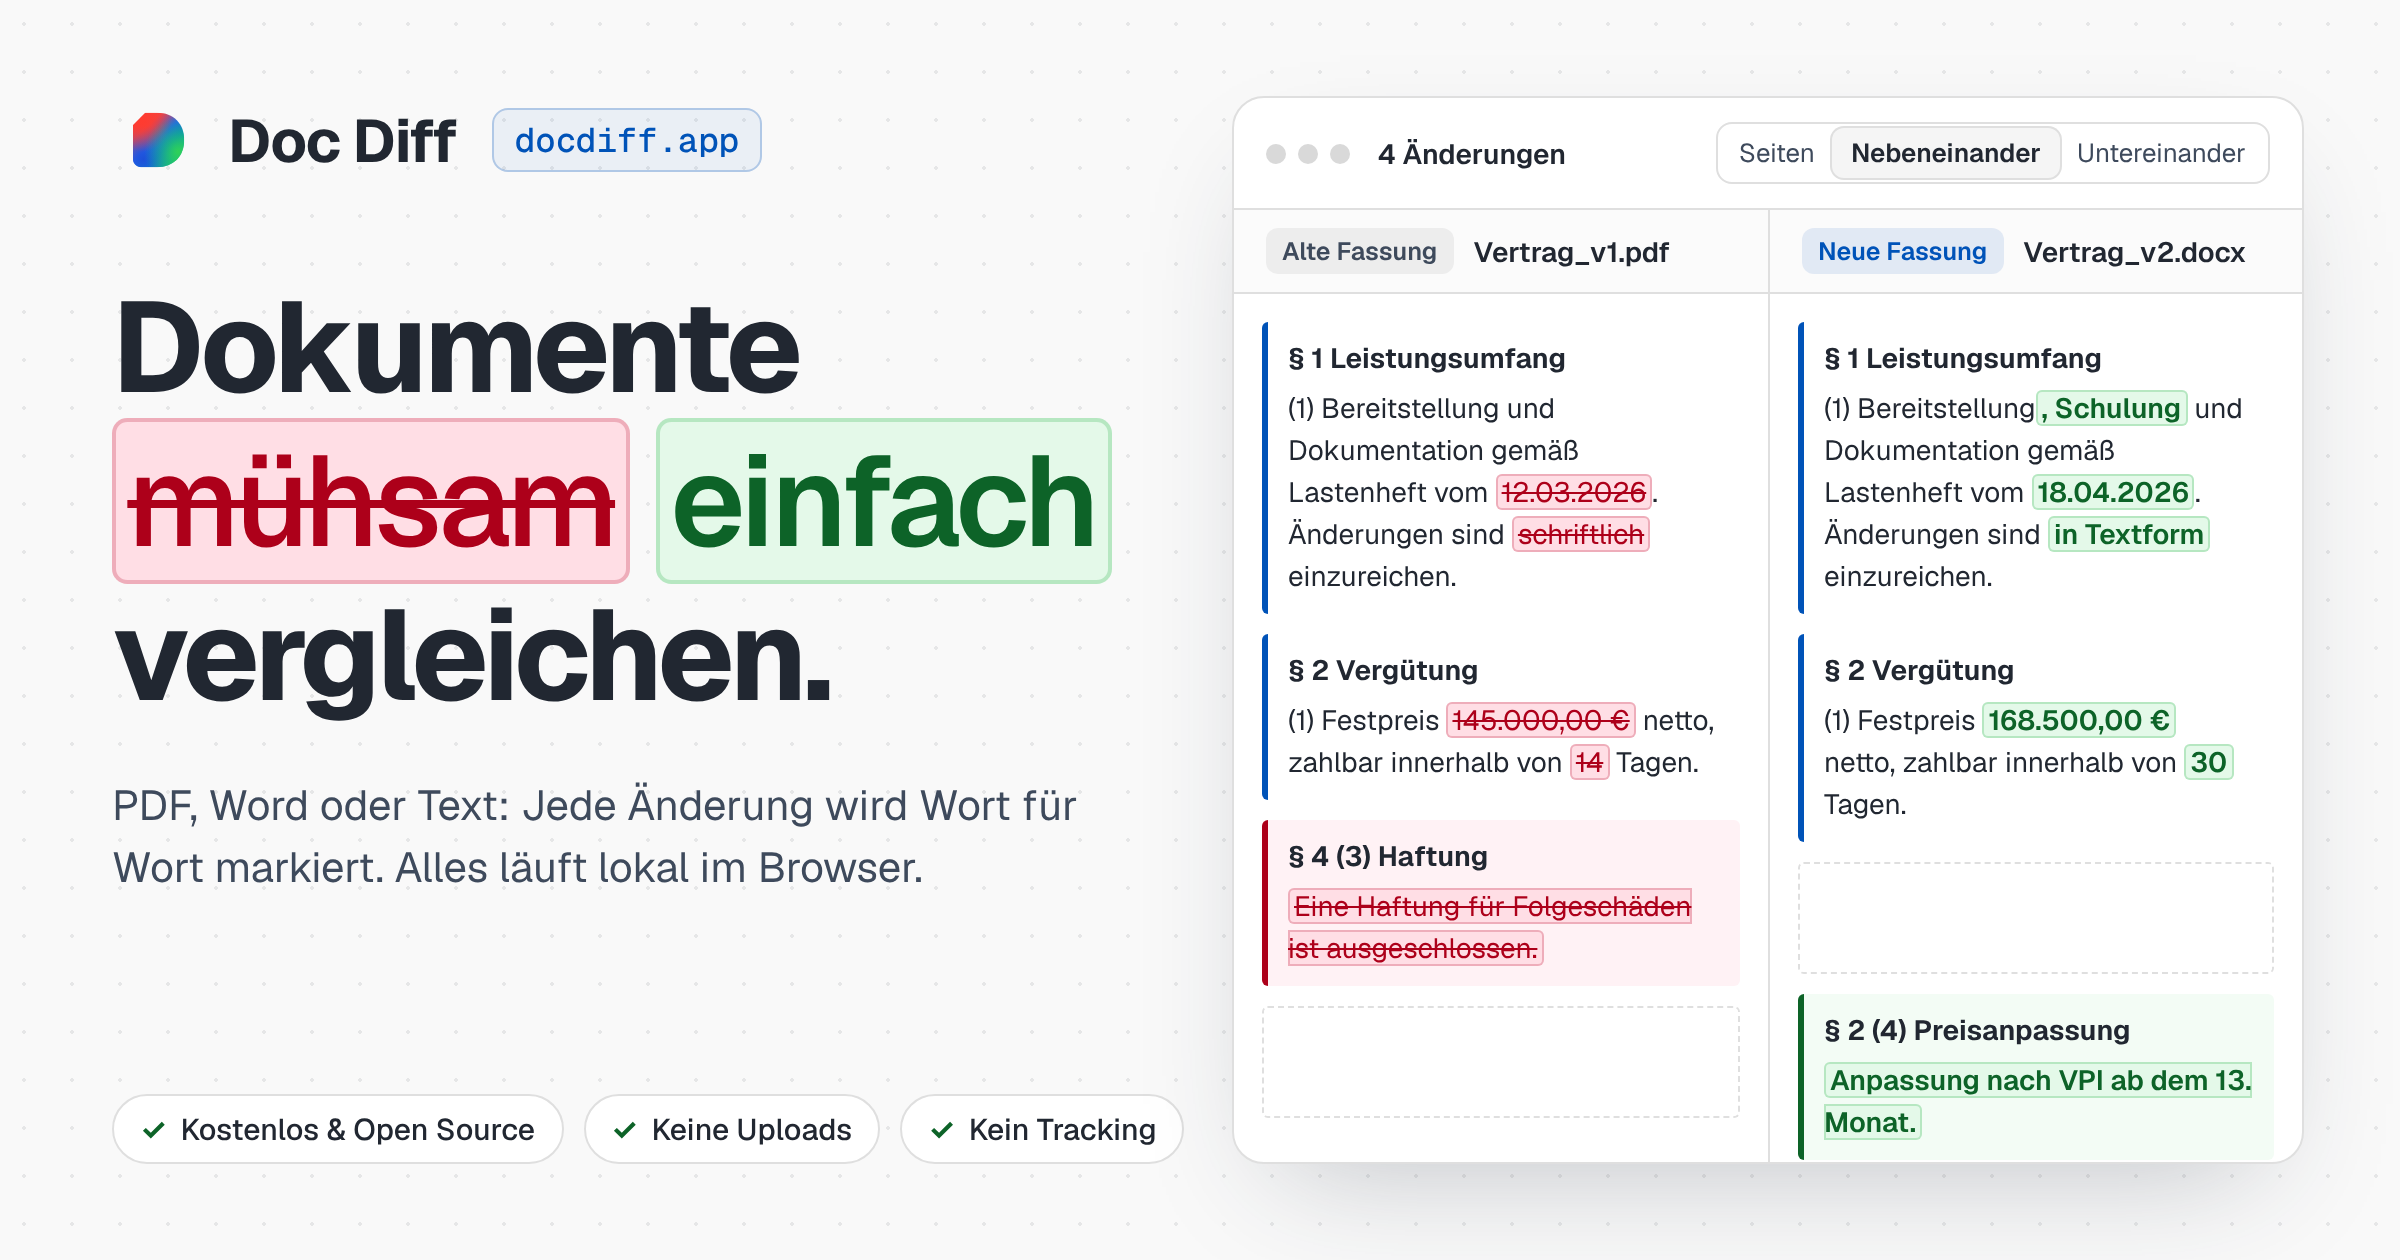
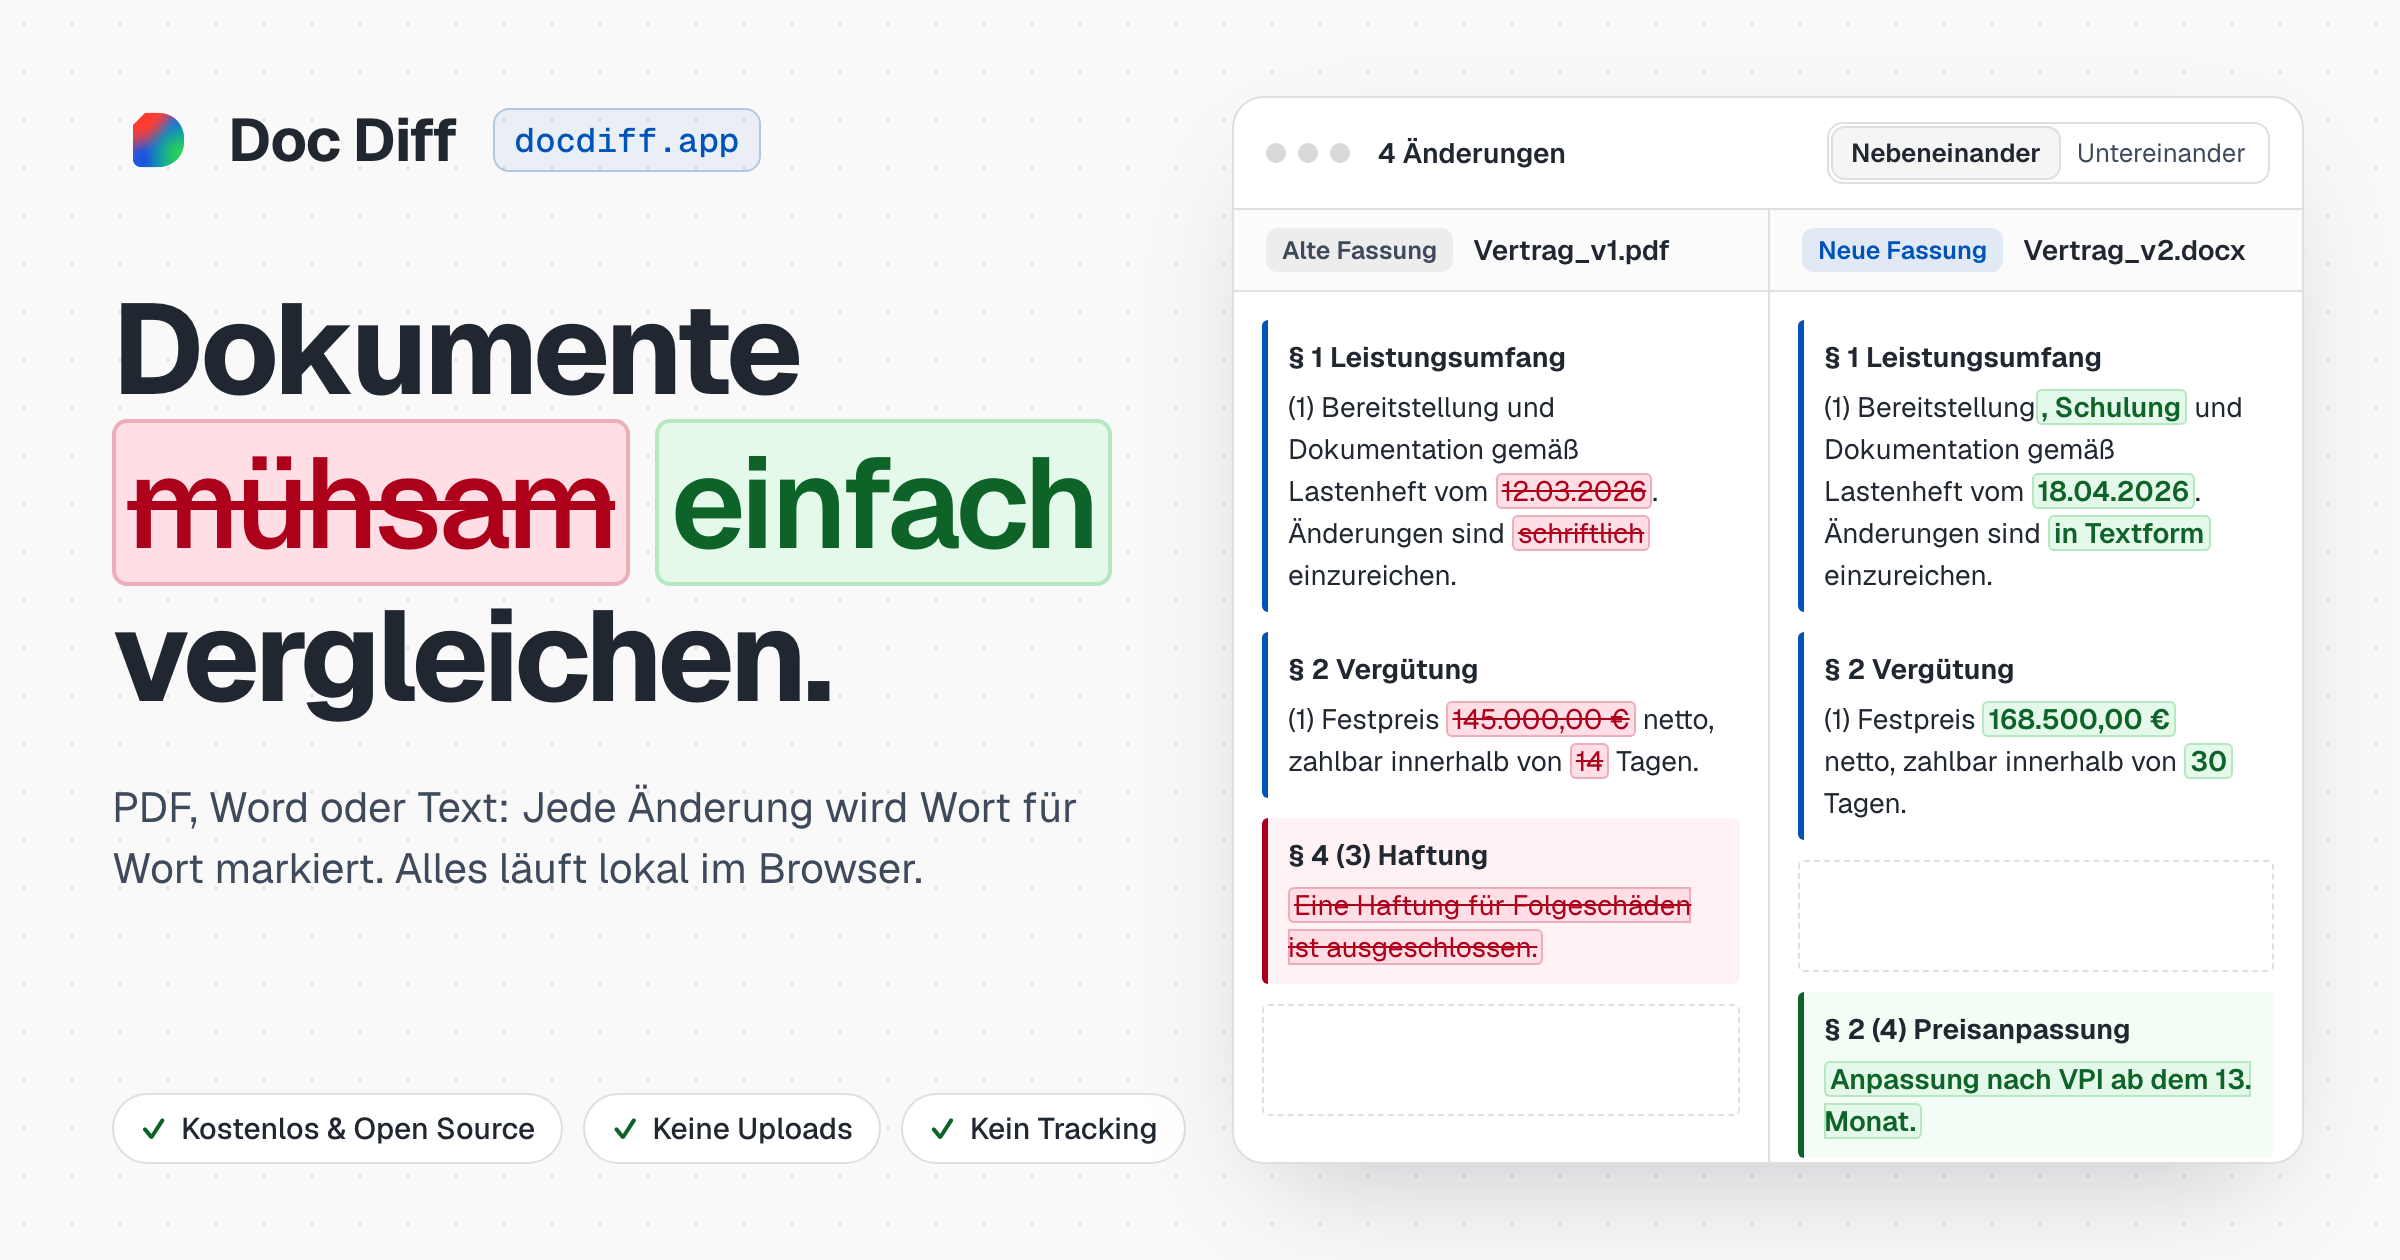
Add an English link preview image and refresh the German one
The English page (/en/) now has its own Open Graph / Twitter image
(site/og-image-en.png, source docs/og-image-en.html) instead of the
German one. Both images drop the "Pages" view option, which the app no
longer has. The German image moves to ?v=3 so link preview caches fetch
it again. The build sets og:image, twitter:image and the JSON-LD image
per page; the checks verify both.

diff --git a/docs/og-image-en.html b/docs/og-image-en.html
@@ -1,0 +1,132 @@
+<!DOCTYPE html>
+<!--
+  Source of site/og-image-en.png (link preview of the English page, /en/; the German page uses
+  og-image.html). Render at 1200x630 CSS pixels with
+  device scale factor 2, e.g. with Playwright:
+    page.setViewportSize({ width: 1200, height: 630 }) on a context with deviceScaleFactor: 2,
+    page.goto('file://.../docs/og-image.html'), page.screenshot({ path: 'site/og-image-en.png' })
+-->
+<html lang="en">
+<head>
+<meta charset="UTF-8">
+<style>
+  @font-face { font-family: Geist; src: url('../vendor/fonts/Geist-Variable.woff2') format('woff2'); font-weight: 100 900; }
+  @font-face { font-family: 'Geist Mono'; src: url('../vendor/fonts/GeistMono-Variable.woff2') format('woff2'); font-weight: 100 900; }
+  :root {
+    --bg: hsl(0 0% 97.5%); --fg: hsl(215 20% 16%); --muted: hsl(215 20% 30.2%); --border: hsl(0 0% 87.4%);
+    --primary: hsl(212.8 100% 36%);
+    --del-bg: hsl(347.4 100% 93.5%); --del-ink: hsl(351 100% 34%); --del-ring: hsl(347.4 100% 35% / .22);
+    --ins-bg: hsl(134.9 61.7% 93.5%); --ins-ink: hsl(138.7 77.3% 22%); --ins-ring: hsl(134.9 61.7% 43.3% / .25);
+  }
+  * { box-sizing: border-box; margin: 0; padding: 0; }
+  html, body { width: 1200px; height: 630px; }
+  body {
+    font-family: Geist, system-ui, sans-serif; color: var(--fg); background: var(--bg);
+    background-image: radial-gradient(hsl(215 20% 16% / .09) 1px, transparent 1px); background-size: 24px 24px;
+    display: grid; grid-template-columns: 520px 1fr; gap: 40px; padding: 48px 48px 48px 56px;
+    -webkit-font-smoothing: antialiased;
+  }
+  body > div:first-child { display: flex; flex-direction: column; }
+  .brand { display: flex; align-items: center; gap: 14px; }
+  .brand .logo { width: 44px; height: 44px; }
+  .brand b { font-size: 30px; font-weight: 700; letter-spacing: -0.02em; }
+  .brand .url { font: 500 17px 'Geist Mono', monospace; color: var(--primary); padding: 4px 10px; border: 1px solid hsl(212.8 100% 36% / .25); background: hsl(212.8 100% 36% / .06); border-radius: 8px; margin-left: 4px; }
+  h1 { margin-top: 44px; font-size: 64px; line-height: 1.2; font-weight: 720; letter-spacing: -0.035em; }
+  h1 del, h1 ins { padding: 0 .12em; border-radius: .12em; }
+  h1 del { background: var(--del-bg); color: var(--del-ink); box-shadow: inset 0 0 0 2px var(--del-ring); text-decoration: line-through; text-decoration-thickness: .07em; font-weight: 520; }
+  h1 ins { background: var(--ins-bg); color: var(--ins-ink); box-shadow: inset 0 0 0 2px var(--ins-ring); text-decoration: none; }
+  .sub { margin-top: 22px; font-size: 21px; line-height: 1.45; color: var(--muted); max-width: 30em; }
+  .chips { margin-top: auto; display: flex; gap: 10px; }
+  .chips span { white-space: nowrap; font-size: 15px; font-weight: 500; padding: 7px 13px; border: 1px solid var(--border); background: #fff; border-radius: 999px; }
+  .chips span::before { content: '✓'; color: var(--ins-ink); margin-right: 7px; font-weight: 700; }
+
+  .win { background: #fff; border: 1px solid var(--border); border-radius: 16px; box-shadow: 0 24px 60px -24px hsl(215 30% 20% / .28); overflow: hidden; display: flex; flex-direction: column; height: 534px; }
+  .bar { display: flex; align-items: center; gap: 14px; padding: 12px 16px; border-bottom: 1px solid var(--border); font-size: 14px; }
+  .dots { display: flex; gap: 6px; } .dots i { width: 10px; height: 10px; border-radius: 50%; background: hsl(0 0% 85%); display: block; }
+  .counts { font-weight: 600; } .counts .m { color: var(--primary); } .counts .i { color: var(--ins-ink); } .counts .d { color: var(--del-ink); } .counts span { font-weight: 500; color: var(--muted); }
+  .seg { margin-left: auto; display: flex; border: 1px solid var(--border); border-radius: 8px; padding: 2px; font-size: 13px; color: var(--muted); }
+  .seg span { padding: 4px 9px; border-radius: 6px; } .seg .on { background: hsl(0 0% 96%); color: var(--fg); font-weight: 600; box-shadow: 0 0 0 1px var(--border); }
+  .cols { display: grid; grid-template-columns: 1fr 1fr; border-bottom: 1px solid var(--border); background: hsl(0 0% 98.5%); }
+  .cols div { display: flex; align-items: center; gap: 10px; padding: 9px 16px; font-size: 14px; font-weight: 600; }
+  .cols div + div { border-left: 1px solid var(--border); }
+  .pill { font-size: 12.5px; font-weight: 600; padding: 3px 8px; border-radius: 6px; background: hsl(0 0% 93%); color: var(--muted); }
+  .pill.new { background: hsl(212.8 100% 36% / .1); color: var(--primary); }
+  .panes { display: grid; grid-template-columns: 1fr 1fr; flex: 1; font-size: 14px; line-height: 1.5; }
+  .pane { padding: 14px 14px 0; display: flex; flex-direction: column; gap: 10px; }
+  .pane + .pane { border-left: 1px solid var(--border); }
+  .cl { padding: 8px 10px; border-left: 3px solid transparent; border-radius: 3px; }
+  .cl h3 { font-size: 14px; font-weight: 650; margin-bottom: 4px; }
+  .cl.mod { border-left-color: var(--primary); }
+  .cl.del { border-left-color: var(--del-ink); background: hsl(347.4 100% 97.5%); }
+  .cl.ins { border-left-color: var(--ins-ink); background: hsl(134.9 61.7% 97%); }
+  .cl.ghost { border: 1px dashed var(--border); color: transparent; min-height: 56px; }
+  del { background: var(--del-bg); color: var(--del-ink); box-shadow: inset 0 0 0 1px var(--del-ring); padding: 0 3px; border-radius: 3px; text-decoration: line-through; }
+  ins { background: var(--ins-bg); color: var(--ins-ink); box-shadow: inset 0 0 0 1px var(--ins-ring); padding: 0 3px; border-radius: 3px; text-decoration: none; font-weight: 600; }
+</style>
+</head>
+<body>
+  <div>
+    <div class="brand">      <svg class="logo" width="64" height="64" viewBox="0 0 512 512" fill="none" aria-hidden="true">
+        <defs>
+          <linearGradient id="blg-prism" x1="135" y1="115" x2="395" y2="395" gradientUnits="userSpaceOnUse">
+            <stop offset="0%" stop-color="#ff3b30"/>
+            <stop offset="24%" stop-color="#ef4444"/>
+            <stop offset="50%" stop-color="#2563eb"/>
+            <stop offset="68%" stop-color="#0284c7"/>
+            <stop offset="88%" stop-color="#10b981"/>
+            <stop offset="100%" stop-color="#34c759"/>
+          </linearGradient>
+          <radialGradient id="blg-bot" cx="24%" cy="80%" r="55%">
+            <stop offset="0%" stop-color="#1d4ed8" stop-opacity="0.95"/>
+            <stop offset="100%" stop-color="#2563eb" stop-opacity="0"/>
+          </radialGradient>
+          <radialGradient id="blg-top" cx="22%" cy="18%" r="50%">
+            <stop offset="0%" stop-color="#ff3b30"/>
+            <stop offset="100%" stop-color="#ff3b30" stop-opacity="0"/>
+          </radialGradient>
+          <radialGradient id="blg-right" cx="84%" cy="68%" r="58%">
+            <stop offset="0%" stop-color="#30d158"/>
+            <stop offset="100%" stop-color="#10b981" stop-opacity="0"/>
+          </radialGradient>
+          <clipPath id="blg-chip">
+            <path d="M 122 170 L 194 98 H 262 C 358 98 420 162 420 256 C 420 350 358 414 262 414 H 170 C 143.5 414 122 392.5 122 366 Z"/>
+          </clipPath>
+        </defs>
+        <g clip-path="url(#blg-chip)">
+          <rect x="100" y="80" width="340" height="360" fill="url(#blg-prism)"/>
+          <rect x="100" y="80" width="340" height="360" fill="url(#blg-bot)"/>
+          <rect x="100" y="80" width="340" height="360" fill="url(#blg-top)"/>
+          <rect x="100" y="80" width="340" height="360" fill="url(#blg-right)"/>
+        </g>
+      </svg><b>Doc Diff</b><span class="url">docdiff.app</span></div>
+    <h1>Compare<br>documents<br><del>by hand</del> <ins>easily</ins>.</h1>
+    <p class="sub">PDF, Word or text: every change is marked word by word. Everything runs locally in your browser.</p>
+    <div class="chips"><span>Free &amp; open source</span><span>No uploads</span><span>No tracking</span></div>
+  </div>
+  <div class="win">
+    <div class="bar">
+      <div class="dots"><i></i><i></i><i></i></div>
+      <div class="counts">4 changes</div>
+      <div class="seg"><span class="on">Side by side</span><span>Stacked</span></div>
+    </div>
+    <div class="cols">
+      <div><span class="pill">Old version</span>Contract_v1.pdf</div>
+      <div><span class="pill new">New version</span>Contract_v2.docx</div>
+    </div>
+    <div class="panes">
+      <div class="pane">
+        <div class="cl mod"><h3>1. Scope of Services</h3>(1) Delivery and documentation as per the specification dated <del>March 12, 2026</del>. Change requests must be made <del>in writing</del>.</div>
+        <div class="cl mod"><h3>2. Fees</h3>(1) Fixed price of <del>EUR 145,000.00</del> net, payable within <del>14</del> days.</div>
+        <div class="cl del"><h3>4. (3) Liability</h3><del>Liability for consequential damages is excluded.</del></div>
+        <div class="cl ghost">.</div>
+      </div>
+      <div class="pane">
+        <div class="cl mod"><h3>1. Scope of Services</h3>(1) Delivery<ins>, training</ins> and documentation as per the specification dated <ins>April 18, 2026</ins>. Change requests must be made <ins>by email</ins>.</div>
+        <div class="cl mod"><h3>2. Fees</h3>(1) Fixed price of <ins>EUR 168,500.00</ins> net, payable within <ins>30</ins> days.</div>
+        <div class="cl ghost">.</div>
+        <div class="cl ins"><h3>2. (4) Price Adjustment</h3><ins>Adjusted to the CPI from month 13 on.</ins></div>
+      </div>
+    </div>
+  </div>
+</body>
+</html>

diff --git a/src/template.html b/src/template.html
@@ -45,7 +45,7 @@
   <meta property="og:locale:alternate" content="__OG_LOCALE_ALT__" />
   <meta property="og:title" content="__I18N:metaTitle__" />
   <meta property="og:description" content="__I18N:metaDescription__" />
-  <meta property="og:image" content="https://docdiff.app/og-image.png?v=2" />
+  <meta property="og:image" content="__OG_IMAGE__" />
   <meta property="og:image:type" content="image/png" />
   <meta property="og:image:width" content="2400" />
   <meta property="og:image:height" content="1260" />
@@ -53,7 +53,7 @@
   <meta name="twitter:card" content="summary_large_image" />
   <meta name="twitter:title" content="__I18N:metaTitle__" />
   <meta name="twitter:description" content="__I18N:metaDescription__" />
-  <meta name="twitter:image" content="https://docdiff.app/og-image.png?v=2" />
+  <meta name="twitter:image" content="__OG_IMAGE__" />
   <meta name="twitter:image:alt" content="__I18N:ogImageAlt__" />
 
   <!-- Structured data (schema.org). A data block: browsers never execute it. -->

diff --git a/src/js/01-i18n.js b/src/js/01-i18n.js
@@ -743,7 +743,7 @@ const I18N = {
     metaTitle: 'Doc Diff – Compare PDF and Word documents without uploading',
     otherPageHint: 'This page is also available in English →',
     metaDescription: 'Compare two versions of a contract or document: PDF, Word or text, marked word by word. Free, open source, runs in your browser without uploads.',
-    ogImageAlt: 'Doc Diff: two versions of a contract side by side, removed text struck through in red, added text marked green (German interface).',
+    ogImageAlt: 'Doc Diff: two versions of a contract side by side, removed text struck through in red, added text marked green.',
     footerSource: 'Source code on GitHub',
     githubMenu: 'Source code on GitHub',
     footerLicense: 'MIT licence',

diff --git a/docs/og-image.html b/docs/og-image.html
@@ -106,7 +106,7 @@
     <div class="bar">
       <div class="dots"><i></i><i></i><i></i></div>
       <div class="counts">4 Änderungen</div>
-      <div class="seg"><span>Seiten</span><span class="on">Nebeneinander</span><span>Untereinander</span></div>
+      <div class="seg"><span class="on">Nebeneinander</span><span>Untereinander</span></div>
     </div>
     <div class="cols">
       <div><span class="pill">Alte Fassung</span>Vertrag_v1.pdf</div>

diff --git a/scripts/build.py b/scripts/build.py
@@ -52,6 +52,7 @@ PAGES = {
         "asset_base": "",
         "og_locale": "de_DE",
         "og_locale_alt": "en_US",
+        "og_image": SITE_URL + "og-image.png?v=3",
         "outputs": [os.path.join("site", "index.html"), "DocDiff.html"],
     },
     "en": {
@@ -60,6 +61,7 @@ PAGES = {
         "asset_base": "../",
         "og_locale": "en_US",
         "og_locale_alt": "de_DE",
+        "og_image": SITE_URL + "og-image-en.png?v=1",
         "outputs": [os.path.join("site", "en", "index.html")],
     },
 }
@@ -169,7 +171,7 @@ def json_ld(template: str, lang: str, strings: dict, version: str) -> str:
         "featureList": [strings[key] for key in features],
         "downloadUrl": OFFLINE_URL,
         "softwareHelp": {"@type": "CreativeWork", "url": REPO_URL + "#readme"},
-        "image": SITE_URL + "og-image.png?v=2",
+        "image": page["og_image"],
         "author": author,
         "sameAs": [REPO_URL],
     }
@@ -220,6 +222,7 @@ def render_page(template: str, lang: str, i18n: dict, version: str) -> str:
         .replace("__ASSET_BASE__", page["asset_base"])
         .replace("__OG_LOCALE__", page["og_locale"])
         .replace("__OG_LOCALE_ALT__", page["og_locale_alt"])
+        .replace("__OG_IMAGE__", page["og_image"])
         .replace("__LANG_LABEL__", "English" if lang == "de" else "Deutsch")
         .replace("__JSON_LD__", json_ld(template, lang, strings, version))
     )
